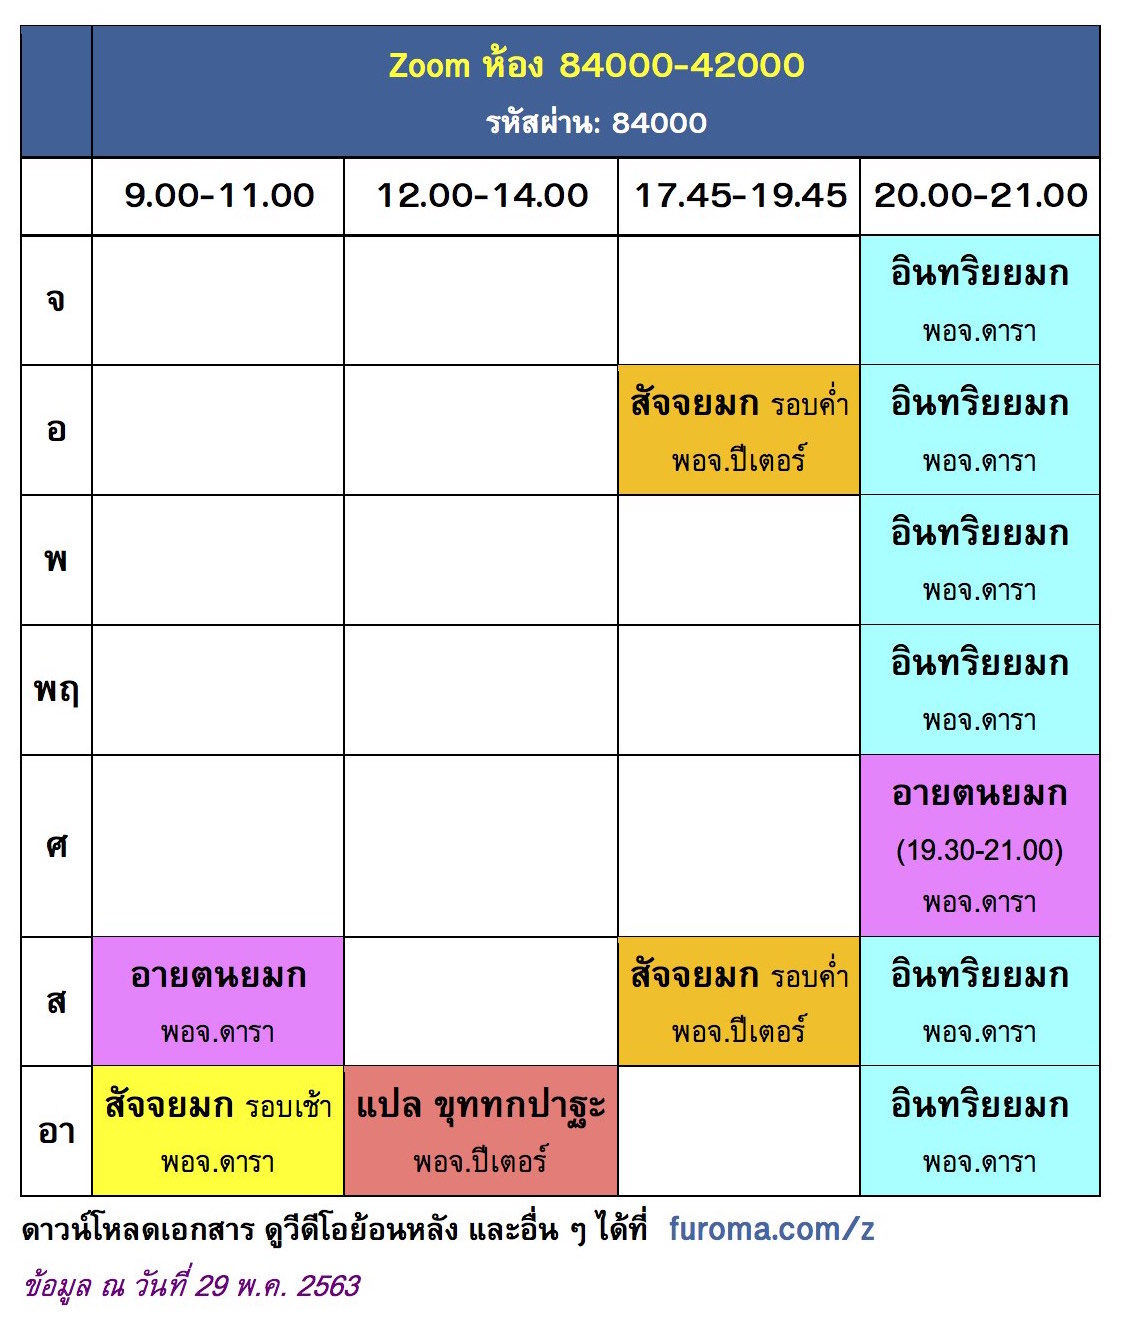
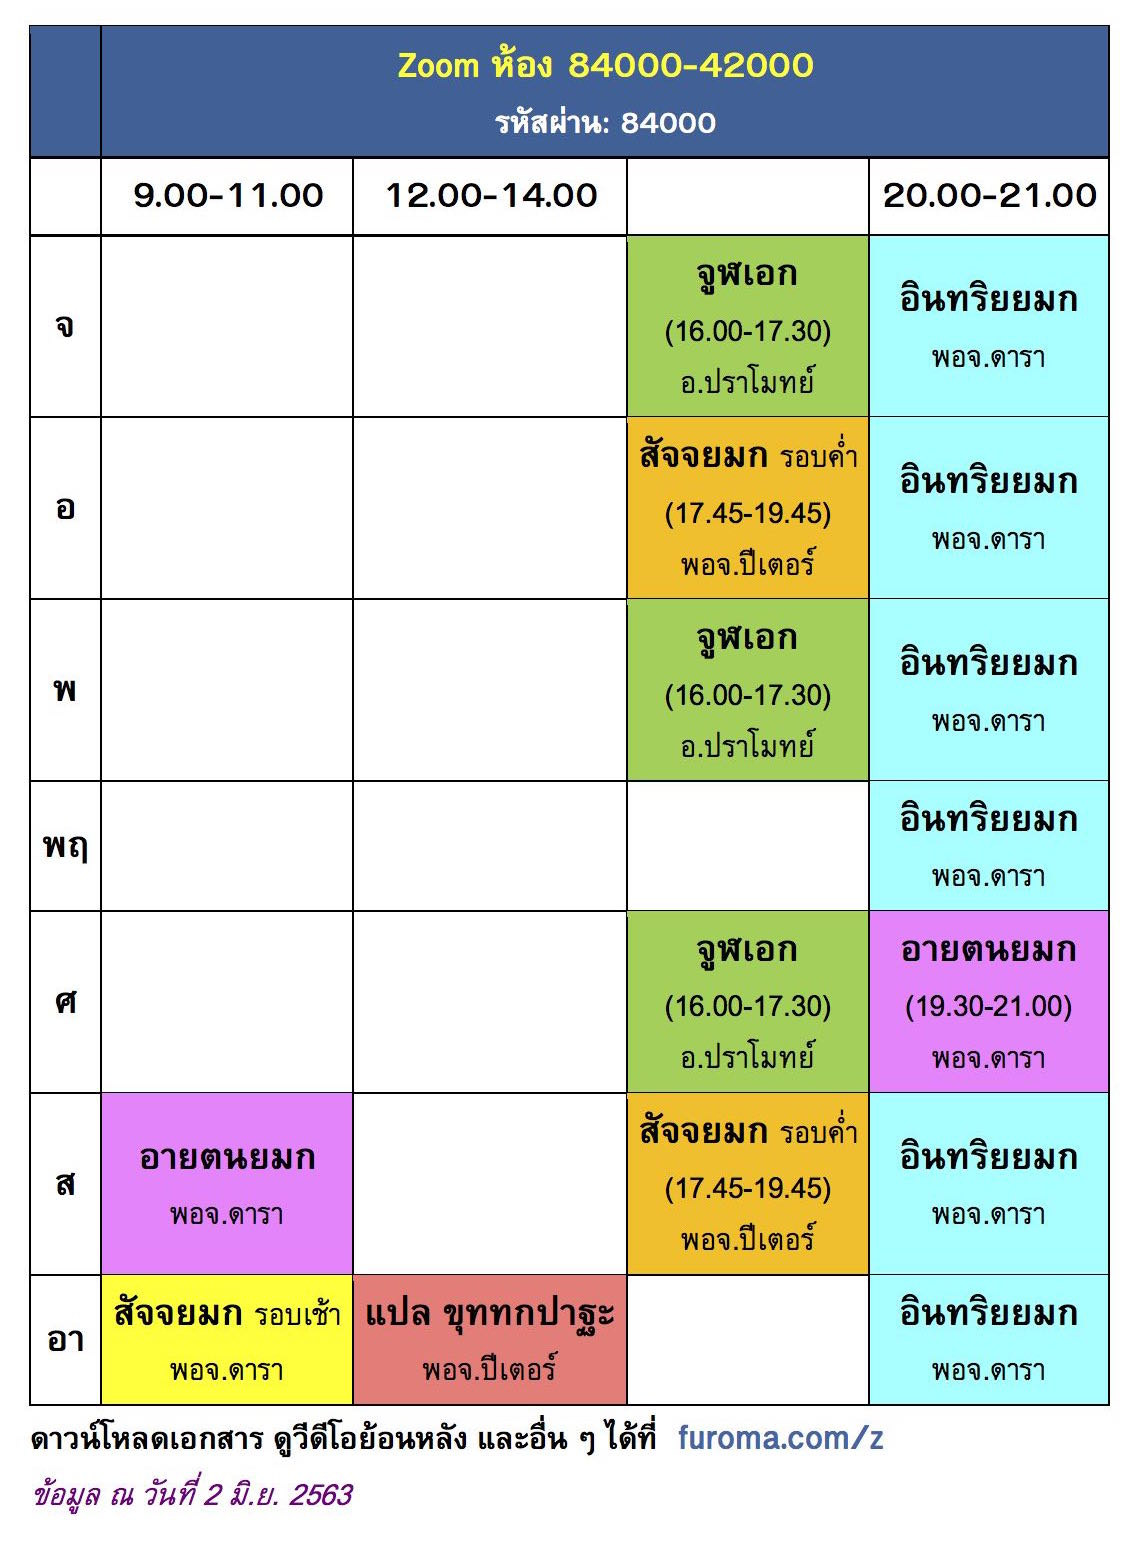
2020-06-02

Changed region(s): [[0.0, 0.0, 0.9973, 0.9865]]

diff --git a/z/index.html b/z/index.html
@@ -61,7 +61,7 @@
 <B>ปัจจยาการวิภังค์</B>: เลื่อนคลาสวันที่ 15 เม.ย. เป็นวันที่ 14 เม.ย.</SPAN><!---->
 
 <TABLE cellpadding=0 cellspacing=0 align=center><TR valign=top><TD>
-<A href=42000.jpg?05-29><IMG border=0 src="42000.jpg?05-29" width=500px height=600px /></A>
+<A href=42000.jpg?06-02><IMG border=0 src="42000.jpg?06-02" width=500px height=600px /></A>
 <A href=84000.jpg?05-29><IMG border=0 src="84000.jpg?05-29" width=500px height=600px /></A></TABLE>
 (คลิกที่รูป เพื่อดูตารางสอนที่ใหญ่ขึ้น)<BR/>
 
